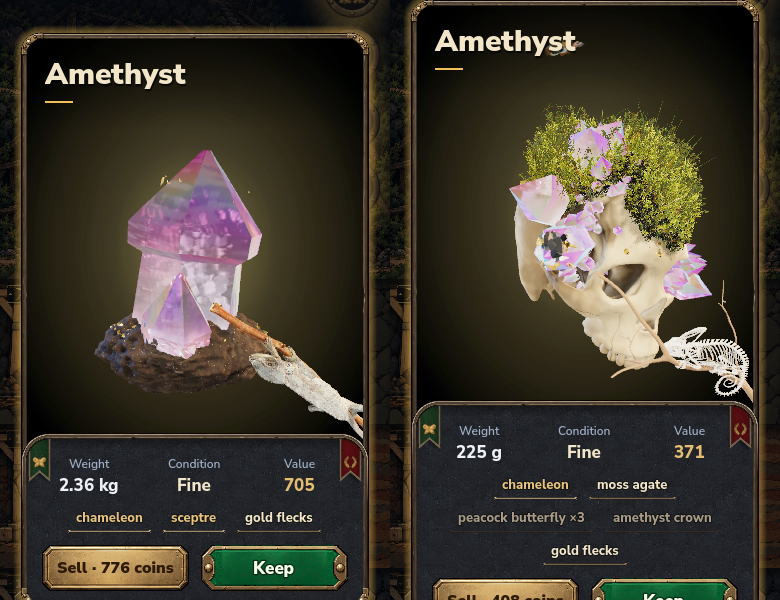
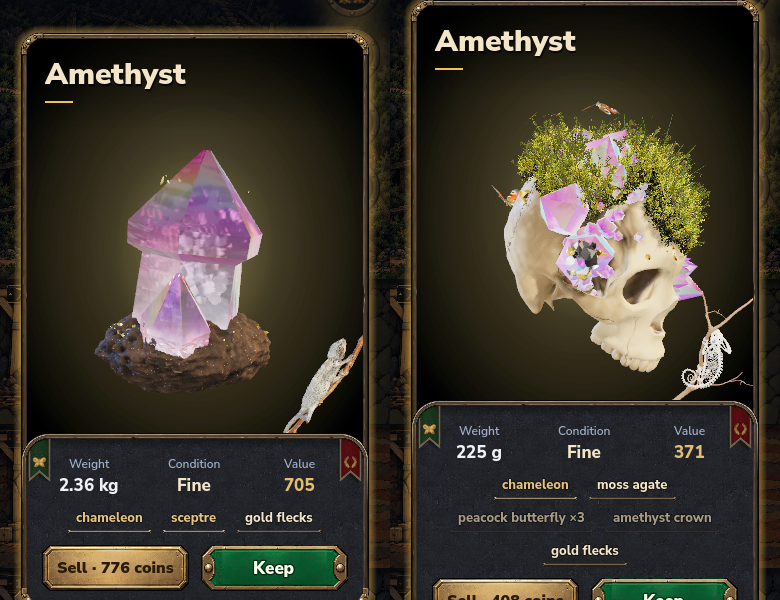
Хамелеон: ветка наискосок через угол окна — от верха панели к правой раме

diff --git a/CLAUDE.md b/CLAUDE.md
@@ -71,7 +71,7 @@
 - Руда и железо рудника — на разных цветах фишек (`AREAS[].ore.iron` ≠ `local`): иначе железа нет вовсе (Proval до 20.11).
 
 ## Что дальше
-- 25.11 (`fixes`), **хамелеон в углу карточки — первая проба, без цвета** (легенда «chameleon»; задумка пользователя: хамелеон на палочке в правом нижнем углу окна камня, затем синхронная смена цвета хамелеона, камня, инфо-блока и рамки). Сканы Sketchfab (CC BY, `assets/specimen/chameleon/CREDITS.md`): живой хамелеон RISD Nature Lab на ветке (ветка отделена по цвету текстуры — коричневая против серого тела) и скелет йеменского хамелеона yoniren2 со своей веткой (подставка выброшена); `prototype/tools/chameleon/cham_prep.py -- <Downloads> <godot/assets/specimen/chameleon>` → `cham_body/cham_branch/cham_skel/cham_skel_branch.obj`, `cham_d.png` (1024). `CardChameleon` (`specimen/card_chameleon.gd`, вешает `Reveal` по `fx == "chameleon"`): модель в мире студии камня (её свет), каждый кадр ставится в правый нижний угол окна (правый край вида, верх инфо-панели; `cam.project_position`), ветка вверх-влево, животное повёрнуто боком к камере, длина ветки — 0,78 ширины окна (`LEN_K`), середина животного чуть выше угла. На черепе — скелет (хамелеон добавлен в легенды черепов людей и зверей). Ключ `cham_flip` — ветка другим концом. Кадр — `art/chameleon_corner_try.png`. Не сделано: раскраска и смена цвета, анимация.
+- 25.11 (`fixes`), **хамелеон в углу карточки — первая проба, без цвета** (легенда «chameleon»; задумка пользователя: хамелеон на палочке в правом нижнем углу окна камня, затем синхронная смена цвета хамелеона, камня, инфо-блока и рамки). Сканы Sketchfab (CC BY, `assets/specimen/chameleon/CREDITS.md`): живой хамелеон RISD Nature Lab на ветке (ветка отделена по цвету текстуры — коричневая против серого тела) и скелет йеменского хамелеона yoniren2 со своей веткой (подставка выброшена); `prototype/tools/chameleon/cham_prep.py -- <Downloads> <godot/assets/specimen/chameleon>` → `cham_body/cham_branch/cham_skel/cham_skel_branch.obj`, `cham_d.png` (1024). `CardChameleon` (`specimen/card_chameleon.gd`, вешает `Reveal` по `fx == "chameleon"`): модель в мире студии камня (её свет), каждый кадр ставится в правый нижний угол окна (правый край вида, верх инфо-панели; `cam.project_position`), ветка лежит наискосок через угол (по эскизу пользователя): нижний конец на верху инфо-панели в 0,24 ширины окна от правого края, верхний — на правой раме в 0,34 ширины над панелью (`CHORD`), концы чуть уходят за край (`LEN_K` 1,18), животное головой вверх, боком к камере. На черепе — скелет (хамелеон добавлен в легенды черепов людей и зверей). Ключ `cham_flip` — ветка другим концом. Кадр — `art/chameleon_corner_try.png`. Не сделано: раскраска и смена цвета, анимация.
 - 25.11 (`fixes`), **легендарный камень не зарастает** (скрин: легендарный «starry sky» флюорит — куча мха, травы и поганок, кристалл ржавый и утоплен): у находок с легендарным эффектом в стекле (`heart, chameleon, lightning, starry, opal, kintsugi, fluor`) — `SpecGenome`: из общего слоя убраны высокие и густые наросты (папоротник, цветы, солома, помпоны, грибы, иглы, корка), в `lost` — лимонит, мох, коралл (закрывали стекло); построитель: порода не наползает на одиночный кристалл (`_hug_rock`), корка только у самого подножия. Лишайник, пыль, бабочки остаются. Найденные легендарные меняют вид. До/после (флюорит со звёздным небом, мохом, хлоритом, лимонитом) — `art/legend_glass_clear_ba.png`.
 - 25.11 (`fixes`), **медь: зелень корки снова ярче** (по просьбе): основа корки светлее (`deep` 0,03–0,08 → 0,1–0,26 по зелёному), яркие зёрна малахита и вне пятен (×0,45), ржавые зоны мягче (0,6). До/после — `art/copper_v7_green_ba.png`.
 - 25.11 (`fixes`), **медь: тёмная пёстрая корка, потёртая медь** (моя оценка 6,5/10, пункты 1–2): корка — почти чёрно-зелёная основа, яркий малахит только пятнами (`patch`) зёрнами скана, бурые и ржавые зоны поверх (`rust`); медь в окнах — тонкие длинные царапины трёх направлений (растянутый шум, гаснет мельче пикселя), пятна потускнения (`blot`); ямки пробовал — квадратные точки, похожие на мусор, убраны; волнистые кольца по меди — `wave` кома 0,24 → 0,12. До/после вблизи — `art/copper_v6_ba.png`. Форма (угловатость, карманы) — не делалась.
